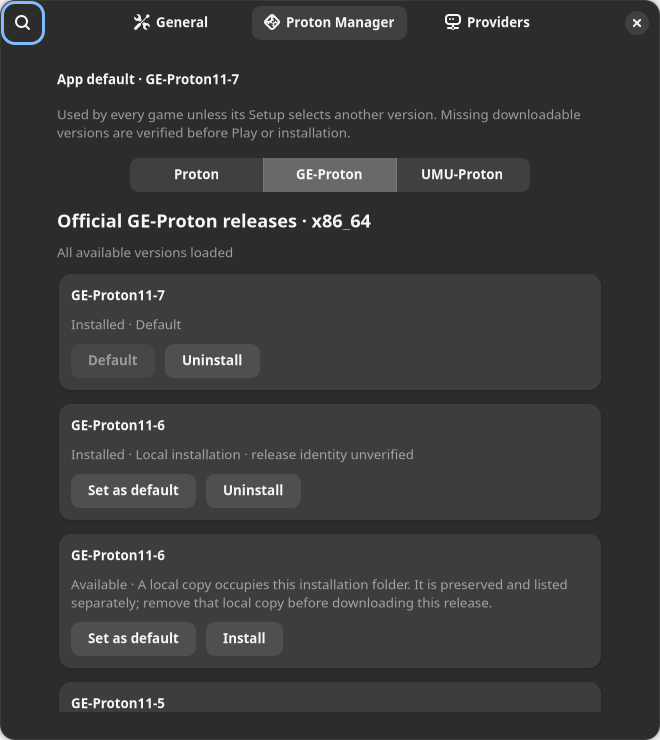
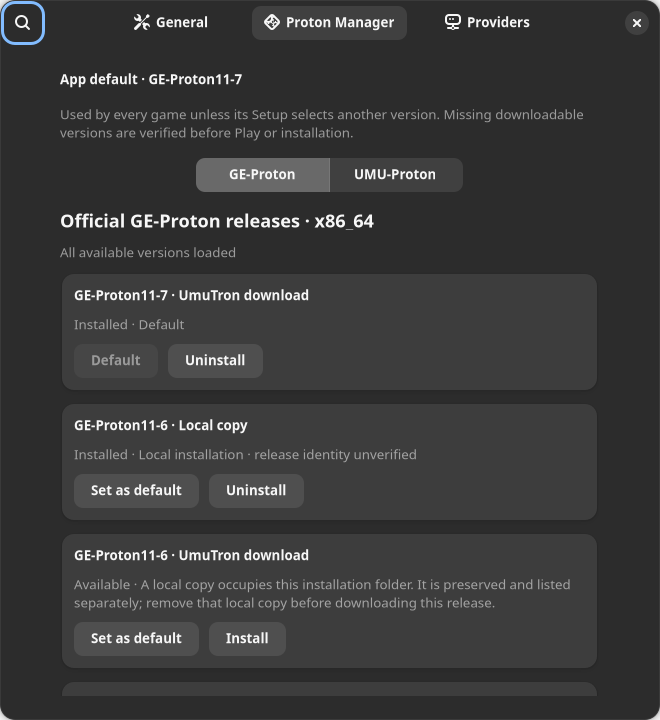
Focus Proton Manager on GE and UMU releases
Remove the local-only official Proton tab and its empty channel groups. Preserve saved Valve/custom runner selections and distinguish UmuTron downloads from UMU-managed and local copies without merging or deleting installations.

Validation:106 core tests, Ruff, compilation, focused native GTK checks and full UI smoke pass. Updated test renders inspected.

diff --git a/tools/proton_checks.py b/tools/proton_checks.py
@@ -16,7 +16,7 @@ from fullscreen_preview import settle
 from game_library.app import Application, Window
 from game_library.demo import prepare_demo
 from game_library.proton_manager import ProtonManager, REPOS
-from game_library.runner_selection import FAMILIES, release_selector
+from game_library.runner_selection import release_selector
 from gi.repository import Adw, Gio, Gtk
 
 
@@ -67,7 +67,16 @@ with tempfile.TemporaryDirectory(prefix='umutron-proton-ui-') as temp:
     for family in REPOS:
         (manager.root/f'releases-{family}-1.json').write_text(json.dumps(payload(family,1)))
     umu=manager.umu_tools/'UMU-Latest';umu.mkdir(parents=True);(umu/'proton').write_text('inert');(umu/'version').write_text('1774856027 UMU-Proton-10.0-4\n')
+    umu_release=next(r for r in manager.cached('UMU-Proton') if r['version']=='UMU-Proton-10.0-4')
+    managed_umu=manager.target(umu_release);managed_umu.mkdir()
+    (managed_umu/'proton').write_text('inert');(managed_umu/'version').write_bytes((umu/'version').read_bytes())
+    (managed_umu/'umutron-release.json').write_text(json.dumps(umu_release))
     local=manager.tools/'GE-Proton11-6';local.mkdir();(local/'proton').write_text('unreceipted fixture')
+    valve=Path(temp)/'Valve-Proton';valve.mkdir();(valve/'proton').write_text('inert');(valve/'version').write_text('1774856027 Proton 11.0-2\n')
+    custom=Path(temp)/'saved-custom-link';custom.symlink_to(valve,target_is_directory=True)
+    library.set_default_proton(str(valve))
+    custom_game=library.games()[-1];custom_game.setdefault('launch',{})['proton']=str(custom);library.save(custom_game)
+    saved_before=library.path.read_bytes()
     gate=threading.Event();calls=[]
     def transport(url):
         calls.append(url)
@@ -82,8 +91,10 @@ with tempfile.TemporaryDirectory(prefix='umutron-proton-ui-') as temp:
     window.open_settings();settle()
     settings=next(w for w in Gtk.Window.get_toplevels() if w.get_title()=='Settings' and w.get_visible())
     settings.set_visible_page(window.proton_settings_page);panel=window.proton_panel
-    assert [panel.stack.get_pages().get_item(i).get_title() for i in range(3)]==list(FAMILIES)
-    assert not any(isinstance(w,Gtk.Button) and w.get_label() in ('Refresh','Load older versions','Refresh installed') for w in widgets(panel))
+    assert panel.stack.get_pages().get_n_items()==2
+    assert [panel.stack.get_pages().get_item(i).get_title() for i in range(2)]==['GE-Proton','UMU-Proton']
+    assert panel.stack.get_visible_child_name()=='GE-Proton'
+    assert not any(isinstance(w,Gtk.Button) and w.get_label() in ('Refresh','Load older versions','Refresh installed','Choose local Proton folder') for w in widgets(panel))
     panel.stack.set_visible_child_name('GE-Proton');settle()
     assert len(panel.items['GE-Proton'])==4 and panel.loading, 'Cached rows must precede background results'
     assert window.get_sensitive() and settings.get_sensitive() and not window.busy
@@ -93,6 +104,8 @@ with tempfile.TemporaryDirectory(prefix='umutron-proton-ui-') as temp:
     refreshed=next(c for c in panel.controls if c['release'] and c['release']['version']==tag)
     assert settings.get_focus() is refreshed['primary'], 'Background catalog must retain the active row control'
     assert len(panel.items['GE-Proton'])==4
+    assert library.path.read_bytes()==saved_before, 'Opening/loading the manager must preserve saved Valve/custom selections'
+    assert 'Proton 11.0-2' in panel.default.get_text()
     catalog=next(c for c in panel.controls if c['release'] and c['release']['version']=='GE-Proton11-6')
     assert catalog['value']=='release:GE-Proton:GE-Proton11-6'
     assert manager.status(catalog['release'])['state']=='Available'
@@ -100,6 +113,12 @@ with tempfile.TemporaryDirectory(prefix='umutron-proton-ui-') as temp:
     assert 'unverified' in preserved['status'].get_text()
     local_umu=next(c for c in panel.controls if not c['release'] and c['value']==str(umu))
     assert 'UMU-managed' in local_umu['status'].get_text() and not local_umu['primary'].get_visible()
+    downloaded_umu=next(c for c in panel.controls if c['release'] and c['value']==release_selector(umu_release))
+    assert 'UmuTron download' in downloaded_umu['heading'].get_text()
+    assert 'UMU-managed copy' in local_umu['heading'].get_text()
+    assert downloaded_umu['heading'].get_text()!=local_umu['heading'].get_text()
+    assert downloaded_umu['primary'].get_label()=='Uninstall' and downloaded_umu['primary'].get_visible()
+    assert manager.status(umu_release)['state']=='Installed'
     manager.has_more=lambda family,page:page==1
     panel.more['GE-Proton']=True
     panel.scrolls['GE-Proton'].emit('edge-reached',Gtk.PositionType.BOTTOM)
@@ -125,14 +144,24 @@ with tempfile.TemporaryDirectory(prefix='umutron-proton-ui-') as temp:
     confirmation.emit('response','cancel');settle()
     assert manager.target(first['release']).is_dir(), 'Cancelling uninstall must keep files'
     panel.set_default(release_selector(first['release']))
-    panel.stack.set_visible_child_name('Proton');settle();capture(settings,args.output/'proton-official.png')
+    panel.set_default(str(umu))
     panel.stack.set_visible_child_name('UMU-Proton');settle();capture(settings,args.output/'proton-umu.png')
+    local_umu=next(c for c in panel.controls if not c['release'] and c['value']==str(umu))
+    assert local_umu['default'].get_label()=='Default'
+    assert managed_umu.is_dir() and umu.is_dir(), 'Presentation must not merge or remove separate installations'
     manager.transport=lambda _:(_ for _ in ()).throw(OSError('Fixture offline'))
     panel.load('UMU-Proton',1);wait(lambda:not panel.loading)
     assert 'cached' in panel.statuses['UMU-Proton'].get_text().lower() and panel.retry['UMU-Proton'].get_visible()
     assert len(panel.items['UMU-Proton'])==4
     capture(settings,args.output/'proton-offline.png')
     settings.close();settle()
+    # A previously saved custom/Valve path remains a usable Setup choice, even
+    # though its former catalog tab no longer exists. Cancel preserves spelling.
+    custom_before=library.path.read_bytes();window.show_game(custom_game);window.open_manage();settle()
+    assert window.launch_fields['proton'].get_text()==str(custom)
+    assert window.proton_choice.get_selected_item().get_string().startswith('Proton 11.0-2')
+    window.cancel_editor();assert library.path.read_bytes()==custom_before
+    assert (valve/'proton').read_text()=='inert' and custom.is_symlink()
     # A delayed Setup catalog response cannot change a new draft after Cancel.
     before=library.path.read_bytes();game=library.games()[0];window.show_game(game)
     entered=threading.Event();release=threading.Event()
@@ -152,4 +181,4 @@ with tempfile.TemporaryDirectory(prefix='umutron-proton-ui-') as temp:
     capture(window.editor,args.output/'proton-game-setup.png')
     window.cancel_editor();manager.releases=original_releases
     window.controller.close();window.destroy();window.pool.shutdown(wait=True)
-print('PASS: exactly three tabs; cached/background catalog; scroll pagination; install/default/uninstall state; referenced removal blocked; offline retention; visible Setup selector; stale async cancellation; no live data or execution')
+print('PASS: exactly GE/UMU tabs; saved Valve/custom selectors preserved; distinct same-version copy labels and ownership; cached/background catalog; scroll pagination; install/default/uninstall state; referenced removal blocked; offline retention; visible Setup selector; stale async cancellation; no live data or execution')

diff --git a/game_library/proton_ui.py b/game_library/proton_ui.py
@@ -1,8 +1,8 @@
-"""Three-family Proton browsing and ordinary per-game runner selection."""
+"""GE/UMU Proton browsing and ordinary per-game runner selection."""
 from pathlib import Path
 from gi.repository import Adw, GLib, Gtk
 from .proton_manager import BUSY, REPOS, runner_label
-from .runner_selection import FAMILIES, INHERIT, parse_release, release_selector
+from .runner_selection import DOWNLOAD_FAMILIES, INHERIT, parse_release, release_selector
 
 
 def text(value, css=None):
@@ -68,14 +68,9 @@ class ProtonPanel(Gtk.Box):
         self.append(switcher)
         self.append(self.stack)
         self.rows, self.statuses, self.retry, self.scrolls = {}, {}, {}, {}
-        for family in FAMILIES:
+        for family in DOWNLOAD_FAMILIES:
             page = box()
-            if family == 'Proton':
-                page.append(text('Official Valve Proton', 'title-3'))
-                page.append(text('Stable, Experimental, Next and legacy versions can run through UMU when a compatible local build is available. Valve distributes these builds through Steam; its release feed provides no verified direct binary downloads for UmuTron.', 'dim-label'))
-                page.append(action('Choose local Proton folder', self.choose_official))
-            else:
-                page.append(text('Official ' + family + ' releases · ' + self.manager.arch, 'title-3'))
+            page.append(text('Official ' + family + ' releases · ' + self.manager.arch, 'title-3'))
             status = text('', 'dim-label')
             page.append(status)
             self.statuses[family] = status
@@ -95,7 +90,7 @@ class ProtonPanel(Gtk.Box):
             if family in REPOS:
                 for release in cached_all(self.manager, family):
                     self.items[family][release_selector(release)] = release
-        self.stack.set_visible_child_name('Proton')
+        self.stack.set_visible_child_name('GE-Proton')
         self.stack.connect('notify::visible-child-name', lambda *_: self.maybe_load_visible())
         dialog.connect('unrealize', lambda *_: setattr(self, 'alive', False))
         self.render()
@@ -153,25 +148,6 @@ class ProtonPanel(Gtk.Box):
             return False
         future.add_done_callback(lambda _: GLib.idle_add(finish))
 
-    def choose_official(self):
-        def chosen(path):
-            if not self.alive:
-                return
-            try:
-                if not (path / 'proton').is_file():
-                    raise ValueError('Choose a folder containing the Proton launcher.')
-                self.window.library.set_default_proton(str(path))
-                self.render()
-            except Exception as error:
-                self.error(error)
-        chooser = Gtk.FileChooserNative.new('Choose local Proton folder', self.dialog, Gtk.FileChooserAction.SELECT_FOLDER, 'Use as default', 'Cancel')
-        def response(widget, response):
-            if response == Gtk.ResponseType.ACCEPT and widget.get_file():
-                chosen(Path(widget.get_file().get_path()))
-            widget.destroy()
-        chooser.connect('response', response)
-        chooser.show()
-
     def error(self, error):
         dialog = Adw.MessageDialog.new(self.dialog, 'Could not complete this action', str(error)[:2000])
         dialog.add_response('ok', 'OK')
@@ -212,7 +188,7 @@ class ProtonPanel(Gtk.Box):
         scroll_values = {family: scroll.get_vadjustment().get_value() for family, scroll in self.scrolls.items()}
         self.controls.clear()
         installed = self.manager.installed()
-        for family in FAMILIES:
+        for family in DOWNLOAD_FAMILIES:
             rows = self.rows[family]
             while child := rows.get_first_child():
                 rows.remove(child)
@@ -229,19 +205,9 @@ class ProtonPanel(Gtk.Box):
                 else:
                     pending.append((value,release))
             local = [path for path in installed if family_of(path) == family and str(Path(path).resolve()) not in covered]
-            if family == 'Proton':
-                self.statuses[family].set_text('Local builds only · direct download unavailable')
-                for channel in ('Stable', 'Experimental', 'Next', 'Legacy / older'):
-                    rows.append(text(channel, 'heading'))
-                    group = [p for p in local if official_channel(p) == channel]
-                    for path in group:
-                        self.add_row(rows, runner_label(path).removesuffix(' — installed'), path, selected)
-                    if not group:
-                        rows.append(text('No local build selected', 'dim-label'))
-            else:
-                self.statuses[family].set_text(self.messages[family])
-                for path in local:
-                    self.add_row(rows, runner_label(path).removesuffix(' — installed'), path, selected)
+            self.statuses[family].set_text(self.messages[family])
+            for path in local:
+                self.add_row(rows, runner_label(path).removesuffix(' — installed'), path, selected)
             for value, release in pending:
                 self.add_row(rows, release['version'], value, selected, release)
         self.update_controls()
@@ -261,7 +227,14 @@ class ProtonPanel(Gtk.Box):
         for edge in ('top', 'bottom', 'start', 'end'):
             getattr(inner, 'set_margin_' + edge)(12)
         card.append(inner)
-        inner.append(text(title, 'heading'))
+        if release:
+            origin = 'UmuTron download'
+        elif Path(value).absolute().parent == self.manager.umu_tools.absolute():
+            origin = 'UMU-managed copy'
+        else:
+            origin = 'Local copy'
+        heading = text(title + ' · ' + origin, 'heading')
+        inner.append(heading)
         status = text('', 'dim-label')
         inner.append(status)
         row = box(False)
@@ -272,7 +245,7 @@ class ProtonPanel(Gtk.Box):
         row.append(primary)
         cancel = action('Cancel', lambda: self.manager.cancel(release))
         row.append(cancel)
-        control = dict(card=card, status=status, default=default, primary=primary, cancel=cancel, value=value, release=release)
+        control = dict(card=card, heading=heading, status=status, default=default, primary=primary, cancel=cancel, value=value, release=release)
         primary.connect('clicked', lambda _: self.primary(control))
         self.controls.append(control)
         rows.append(card)
@@ -320,19 +293,6 @@ class ProtonPanel(Gtk.Box):
             return False
         self.update_controls()
         return True
-
-
-def official_channel(path):
-    name = (Path(path).name + ' ' + runner_label(path)).lower()
-    if 'experimental' in name:
-        return 'Experimental'
-    if 'next' in name:
-        return 'Next'
-    # Local folders do not provide a trusted latest-version catalog. Explicitly
-    # named legacy builds are grouped; other local official builds remain Stable.
-    if any(word in name for word in ('legacy', 'older', 'proton 3.', 'proton 4.', 'proton 5.', 'proton 6.', 'proton 7.', 'proton 8.')):
-        return 'Legacy / older'
-    return 'Stable'
 
 
 def build_game_selector(window, content, dialog):

diff --git a/game_library/runner_selection.py b/game_library/runner_selection.py
@@ -4,7 +4,6 @@ import re
 INHERIT = 'default'
 AUTOMATIC = {'UMU-Latest': 'UMU-Proton', 'GE-Latest': 'GE-Proton'}
 DOWNLOAD_FAMILIES = ('GE-Proton', 'UMU-Proton')
-FAMILIES = ('Proton', 'GE-Proton', 'UMU-Proton')
 
 
 def parse_release(value):

diff --git a/game_library/__init__.py b/game_library/__init__.py
@@ -1,6 +1,6 @@
 """UmuTron: a standalone installed-game library and UMU launcher."""
 
-__version__ = "0.4.19"
+__version__ = "0.4.20"
 
 APP_NAME = "UmuTron"
 APP_ID = "io.github.game_library_launcher"

diff --git a/README.md b/README.md
@@ -27,7 +27,7 @@ The app now appears as **UmuTron** in its window, Settings information, applicat
 - Optional overrides in collapsed **Advanced launch settings**, including Reset to defaults and custom paths. Normal Proton selection is visible in Setup.
 - Close to tray; **Show UmuTron** and explicit **Exit**. Without a supported tray host, close minimizes instead of making the app inaccessible. Reopening activates the existing instance.
 - One app-owned game or installer at a time. Stop targets only that launch's verified owned processes. Active operations continue under their supervisor if you explicitly Exit; reopening reconnects.
-- Three-tab Proton Manager: official **Proton**, **GE-Proton**, **UMU-Proton**. Cached catalogs update in the background and load older releases while scrolling. Installed/default/available states share one list. Verified GE/UMU downloads support cancellation, retry and guarded uninstall of managed runners.
+- Two-tab Proton Manager: **GE-Proton** and **UMU-Proton**. Cached catalogs update in the background and load older releases while scrolling. Installed/default/available states share one list. Verified GE/UMU downloads support cancellation, retry and guarded uninstall of managed runners.
 - Local ZIP import/export, compact cards, filtering, light/dark/system themes and provider artwork.
 
 ## Desktop and fullscreen
@@ -54,7 +54,7 @@ This user-level installer writes code to `~/.local/opt/game-library-launcher` an
 
 ## Proton versions
 
-Settings → Proton Manager has exactly three family tabs. **Proton** groups local official Stable, Experimental, Next and legacy builds; **GE-Proton** and **UMU-Proton** browse their official release archives for this computer’s architecture. Valve distributes official binaries through Steam and currently exposes no direct verified binary assets in its GitHub release feed. UmuTron can use a compatible local official build through UMU; it does not install Steam/SteamCMD, fetch source archives as runners, or integrate external launcher libraries.
+Settings → Proton Manager has two tabs: **GE-Proton** and **UMU-Proton**, with official release archives for this computer’s architecture. The local-only Valve Proton tab has been removed. Existing explicit Valve/custom runner paths and saved defaults remain usable through UMU and the per-game Setup selector; removing the tab does not uninstall software or rewrite selections. Same-version copies have distinct headings for **UmuTron download**, **UMU-managed copy**, or **Local copy**, retaining separate paths, receipts and removal rules.
 
 Choose **Set as default** on a build. Manage Game → **Proton version** offers **Use default** and exact available/installed versions. Saving a choice never downloads or executes a game. After explicit Play or Launch Installer, a missing exact GE/UMU build downloads, checks its published digest, installs atomically, and only then starts UMU with its absolute path. Failed/cancelled preparation never starts the game; retry keeps the selected version. Concurrent requests reuse the same completed verified installation. Partial archives are discarded and retries fetch a fresh copy.
 

diff --git a/docs/VALIDATION.md b/docs/VALIDATION.md
@@ -167,3 +167,10 @@ Native isolated GTK Broadway fixtures cover the three family tabs, cached-first 
 Core tests exercise the actual launch supervisor with only its network transport replaced by a local fixture archive: exact PROTONPATH after verified install, no execution/prefix on download failure or cancellation, successful retry, and runner leases retained for an orphaned descendant. Two separate Python processes request the same build and perform one download. Additional checks cover inherited defaults, installer continuity, checksum/source/architecture/space rejection, cancellation isolation, reference reassignment, and managed-only removal preserving fixtures representing games, saves and prefixes.
 
 Legacy UMU/GE automatic policy resolution, actual vendor binaries, real game compatibility, hardware controllers, Valve distribution, and Wayland/X11 capture remain outside this isolated acceptance run. No live games, installers, runner installations/removals or profile activation are performed. CI uses Ubuntu’s system Python and native GI packages because tray tests require GLib; a generic setup-python interpreter lacks that binding.
+
+
+## GE/UMU manager simplification — 0.4.20
+
+106 core tests, Ruff F checks and Python compilation pass. The native Proton fixture asserts exactly GE-Proton/UMU-Proton tabs, preserves a saved Valve global default and custom symlink selection without rewriting the library, and distinguishes two installed same-version UMU copies while retaining their selectors and removal rules. Cached/background results, pagination, explicit install/default/uninstall, cancellation, offline retry and stale Setup callbacks remain covered. The complete native UI smoke suite also passes.
+
+Inspected actual GTK test renders at 660×720 show both tabs and the differentiated copy headings without clipping. These are temporary Broadway fixtures with inert runners, not live-desktop screenshots or real vendor installations. No launch/download/uninstall implementation changed. Existing runners, prefixes and saved configuration are not migrated or removed.

diff --git a/docs/DESIGN.md b/docs/DESIGN.md
@@ -160,3 +160,10 @@ Explicit execution may prepare a missing exact release under the independent sup
 Every concrete runner operation holds a shared canonical-path lease through preparation and all owned descendants. Removal requires an exclusive runner lease and the library’s launch guard, rechecks effective saved references, and rejects observed same-user process use or inaccessible process evidence. Only direct, unlinked children of the app’s managed runners folder can be removed after confirmation. Historical installer metadata is retained, but a deliberate replacement selection allows reassignment. Paths, prefixes, saves and custom/external runner folders remain untouched. No OS-wide exclusion is claimed for nonparticipating processes.
 
 Catalog completion is scoped to its living Settings dialog or exact Setup draft, so closing/cancelling cannot mutate a later editor or save a choice. Tests cover real independent inert supervisors and multiprocess install contention, exact selection, inherited defaults, failed/cancelled preparation, retry, orphan descendants, referenced/in-use removal, archive/source/space rejection and native dialog transitions.
+
+
+## Focused Proton Manager — 0.4.20
+
+The current manager has exactly two tabs, GE-Proton and UMU-Proton, opening on GE-Proton. The former local-only official Proton tab, empty channel groups and folder picker are removed. This supersedes the three-tab presentation in 0.4.19; it does not change runner selection or launch contracts. Existing saved Valve/custom paths, symlink spellings, global defaults and installation pins remain usable and are not migrated or deleted. The per-game selector continues to include saved local runners.
+
+Rows identify their source in the heading: UmuTron download, UMU-managed copy, or Local copy. Two copies reporting the same version remain distinct installations with unchanged selectors, receipt requirements and uninstall safeguards. The change does not merge files, adopt unverified folders, remove runners or touch prefixes.
